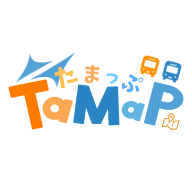
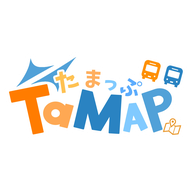
ファビコンを背景透過のロゴに差し替え、アイコン設定を整理
- アプリ内ロゴ(tamap_logo.webp)から透過のアイコンを作り直し、余白を詰めた
- favicon.ico(16/32/48)を追加し、誤っていた type="image/svg+xml" を修正
- iOSは透過部分が黒くなるので apple-touch-icon は白背景の180pxにした
- Android向けに余白を取った maskable アイコンをmanifestに追加
- 使わなくなった icon_144x144.png を削除

Claude-Session: https://claude.ai/code/session_012jMoBUQQ3YX3ZUV6taKN1b

Changed region(s): [[0.0312, 0.2812, 0.9688, 0.7188]]

diff --git a/vite.config.ts b/vite.config.ts
@@ -14,7 +14,7 @@ export default defineConfig({
       // 登録と更新確認は src/register-sw.ts で行う
       registerType: "autoUpdate",
       injectRegister: false,
-      includeAssets: ["icon_144x144.png", "robots.txt"],
+      includeAssets: ["favicon.ico", "apple-touch-icon.png", "robots.txt"],
       workbox: {
         globPatterns: ["**/*.{js,css,html,png,webp,svg,ico}"],
         // SNS共有用の画像はアプリでは使わない
@@ -44,6 +44,13 @@ export default defineConfig({
             src: "icon_512x512.png",
             sizes: "512x512",
             type: "image/png",
+          },
+          {
+            // Androidのホーム画面で円や角丸に切り抜かれても欠けないよう余白を取った版
+            src: "icon_maskable_512x512.png",
+            sizes: "512x512",
+            type: "image/png",
+            purpose: "maskable",
           },
         ],
       },

diff --git a/index.html b/index.html
@@ -3,8 +3,9 @@
 
 <head>
   <meta charset="UTF-8" />
-  <link rel="icon" type="image/svg+xml" href="/icon_144x144.png" />
-  <link rel="apple-touch-icon" href="/icon_144x144.png">
+  <link rel="icon" href="/favicon.ico" sizes="48x48" />
+  <link rel="icon" type="image/png" href="/icon_192x192.png" sizes="192x192" />
+  <link rel="apple-touch-icon" href="/apple-touch-icon.png" />
   <meta name="viewport" content="width=device-width, initial-scale=1.0" />
   <meta name="theme-color" content="#38bdf8" />
   <meta name="keywords" content="法政大学,法政,多摩多摩キャンパス,京王バス,神奈中バス,西八王子,めじろ台,相原,藤,hicheese,ハイチーズ Hi Cheese!,コクテル堂" />
